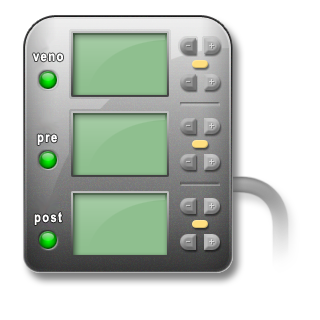
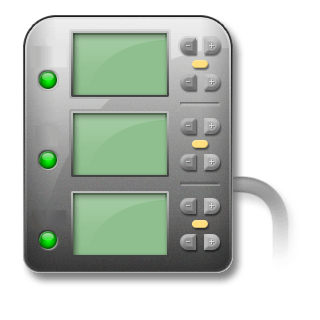
Pressure monitor detail i18n completed.
git-svn-id: https://ecmojo.svn.sourceforge.net/svnroot/ecmojo@752 6adee215-725e-4b28-87c1-af44a2b16021

Changed region(s): [[0.0938, 0.6562, 0.2188, 0.7188], [0.0938, 0.4062, 0.1875, 0.4688], [0.0938, 0.1562, 0.2188, 0.2188]]

diff --git a/trunk/app/src/main/java/edu/hawaii/jabsom/tri/ecmo/app/view/comp/PressureMonitorDetailPanel.java b/trunk/app/src/main/java/edu/hawaii/jabsom/tri/ecmo/app/view/comp/PressureMonitorDetailPanel.java
@@ -9,13 +9,15 @@ import java.awt.RenderingHints;
 import java.awt.event.ActionEvent;
 import java.awt.event.ActionListener;
 
+import javax.swing.JLabel;
+
 import king.lib.access.ImageLoader;
 import king.lib.out.Error;
 import king.lib.util.Translator;
-
 import edu.hawaii.jabsom.tri.ecmo.app.control.action.KillAction;
 import edu.hawaii.jabsom.tri.ecmo.app.control.action.PressureMonitorAction;
 import edu.hawaii.jabsom.tri.ecmo.app.gui.ImageButton;
+import edu.hawaii.jabsom.tri.ecmo.app.gui.TextLabel;
 import edu.hawaii.jabsom.tri.ecmo.app.model.comp.PressureMonitorComponent;
 import edu.hawaii.jabsom.tri.ecmo.app.view.dialog.StandardDialog;
 import edu.hawaii.jabsom.tri.ecmo.app.view.dialog.StandardDialog.DialogOption;
@@ -30,10 +32,9 @@ import edu.hawaii.jabsom.tri.ecmo.app.view.dialog.StandardDialog.DialogType;
 public class PressureMonitorDetailPanel extends DetailPanel implements Runnable {
 
   /** The detail image. */
-  private Image detailImage 
+  private Image detailImage
     = ImageLoader.getInstance().getImage(
-        Translator.getString(
-          "image.DetailPressureMonitor[i18n]: conf/image/interface/game/Detail-PressureMonitor.png"));
+        "conf/image/interface/game/Detail-PressureMonitor.png");
 
   /** The red alert image. */
   private Image redAlertImage = ImageLoader.getInstance().getImage("conf/image/interface/game/Alrt-RedMedium.png");
@@ -71,6 +72,20 @@ public class PressureMonitorDetailPanel extends DetailPanel implements Runnable 
     // set layout and look
     setLayout(null);
     setOpaque(false);
+
+    // add labels for ven, pre, & post
+    TextLabel lblVenous = createTextLabels(
+        Translator.getString("label.PressureMonitorVenous[i18n]: veno"),
+        12f, 20, 50);
+    add(lblVenous);
+    TextLabel lblPre = createTextLabels(
+        Translator.getString("label.PressureMonitorPre[i18n]: pre"),
+        12f, 20, 130);
+    add(lblPre);
+    TextLabel lblPost = createTextLabels(
+        Translator.getString("label.PressureMonitorPost[i18n]: post"),
+        12f, 20, 210);
+    add(lblPost);
 
     // adjustment value
     final double increment = 5;
@@ -357,6 +372,26 @@ public class PressureMonitorDetailPanel extends DetailPanel implements Runnable 
     incMin3Button.setLocation(200, 229);
     incMin3Button.setSize(24, 24);
     add(incMin3Button);    
+  }
+
+  /**
+   * Private method to simplify & consolidate rendering config box text labels.
+   *
+   * @param text  String for TextLabel.
+   * @param fontSize  Size of font.
+   * @param x  X-coordinate.
+   * @param y  Y-coordinate.
+   * @return TextLabel object.
+   */
+  private TextLabel createTextLabels(String text, float fontSize, int x, int y) {
+    TextLabel label = new TextLabel(text);
+    label.setHorizontalAlignment(JLabel.CENTER);
+    label.setFont(label.getFont().deriveFont(Font.BOLD, fontSize));
+    label.setDrawShadow(true);
+    label.setDrawBorder(false);
+    label.setLocation(x, y);
+    label.setSize(60, 25);
+    return label;
   }
 
   /**
